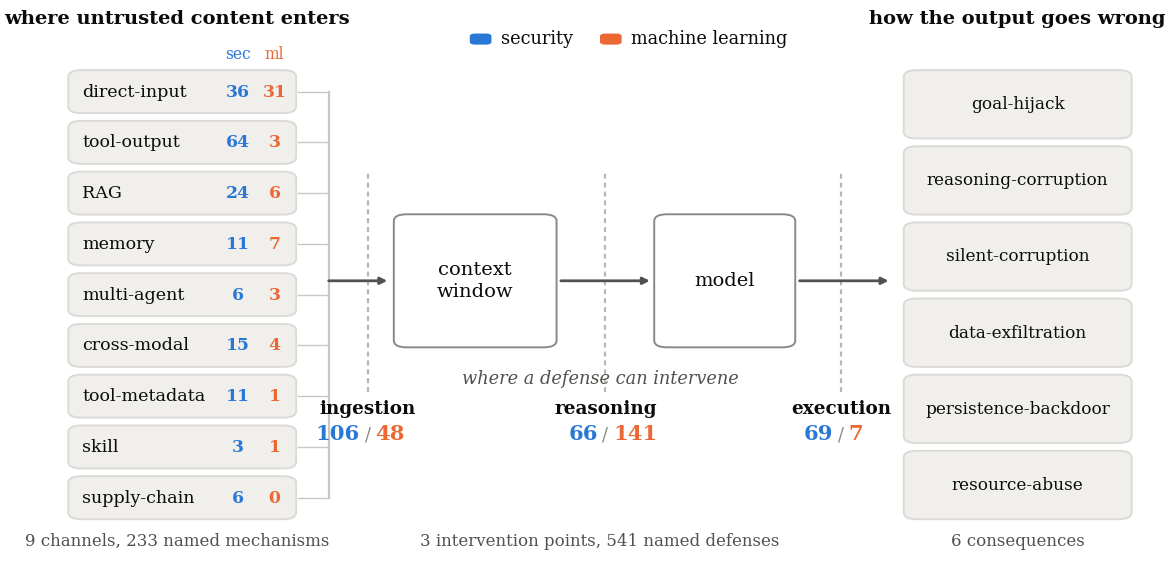
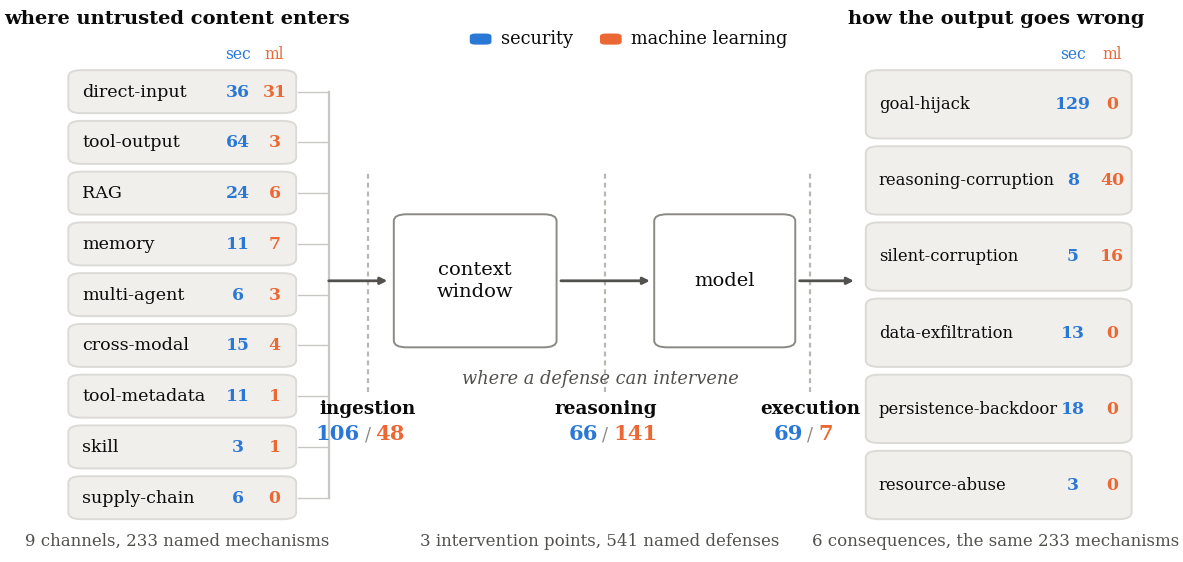
Put counts on the consequence boxes
The consequence column was the only one in the figure carrying no data, while
the channels already showed a sec/ml split. It now follows the same
convention, which makes the sharpest division in the taxonomy visible rather
than confined to the prose: goal-hijack 129 to 0, reasoning-corruption 8 to
40, and three consequences named by the security track alone.

Widened that column to fit the labels, shortened the final arrow and moved the
execution gate left so its label clears the boxes. Caption notes what the
column now shows.

diff --git a/scripts/gen_taxonomy_figure.py b/scripts/gen_taxonomy_figure.py
@@ -83,6 +83,8 @@ def main():
     mc = collections.Counter((e.get("channel"), e.get("track")) for e in mech)
     dp = collections.Counter((e.get("defense_intervention_point"),
                               e.get("track")) for e in defs)
+    qc = collections.Counter((e.get("consequence"), e.get("track"))
+                             for e in mech)
 
     fig, ax = plt.subplots(figsize=(FULL, 3.6))
     ax.set_xlim(0, 100); ax.set_ylim(0, 100); ax.axis("off")
@@ -130,10 +132,10 @@ def main():
     box(ax, 31, 38, 15, 24, "context\nwindow", "#ffffff", MUTED, fs=7)
     box(ax, 55, 38, 13, 24, "model", "#ffffff", MUTED, fs=7)
     arrow(ax, 46.4, 50, 54.6, 50, lw=1.0, color=INK2)
-    arrow(ax, 68.4, 50, 76.6, 50, lw=1.0, color=INK2)
+    arrow(ax, 68.4, 50, 73.4, 50, lw=1.0, color=INK2)
 
     # ---- the three intervention points -------------------------------------
-    for (key, lab), xc in zip(POINTS, (28.6, 50.5, 72.2)):
+    for (key, lab), xc in zip(POINTS, (28.6, 50.5, 69.4)):
         s_, m_ = dp.get((key, "Security"), 0), dp.get((key, "ML/AI"), 0)
         ax.plot([xc, xc], [30, 70], ls=(0, (2.2, 1.8)), lw=0.8,
                 color="#b9b7b2", zorder=0)
@@ -152,12 +154,21 @@ def main():
     # ---- consequences, right -----------------------------------------------
     n2 = len(CONSEQ)
     h2 = (top - bot - gap * (n2 - 1)) / n2
-    ax.text(88.5, 96.4, "how the output goes wrong", ha="center",
+    ax.text(86.5, 96.4, "how the output goes wrong", ha="center",
             fontsize=7, color=INK, fontweight="bold")
-    ax.text(88.5, 2.2, "6 consequences", ha="center", fontsize=6.0, color=INK2)
+    ax.text(93.6, 90.0, "sec", ha="center", fontsize=5.6, color=SEC)
+    ax.text(97.2, 90.0, "ml", ha="center", fontsize=5.6, color=ML)
+    ax.text(86.5, 2.2, "6 consequences, the same 233 mechanisms", ha="center", fontsize=6.0, color=INK2)
     for i, c in enumerate(CONSEQ):
         y = top - i * (h2 + gap) - h2
-        box(ax, 78, y, 21, h2, c, GREY, "#dcdad6", fs=6.1)
+        s_, m_ = qc.get((c, "Security"), 0), qc.get((c, "ML/AI"), 0)
+        box(ax, 74.5, y, 24.5, h2, "", GREY, "#dcdad6")
+        ax.text(75.7, y + h2 / 2, c, ha="left", va="center", fontsize=5.9,
+                color=INK)
+        ax.text(93.6, y + h2 / 2, f"{s_}", ha="center", va="center",
+                fontsize=6.2, color=SEC, fontweight="bold")
+        ax.text(97.2, y + h2 / 2, f"{m_}", ha="center", va="center",
+                fontsize=6.2, color=ML, fontweight="bold")
 
     OUT.mkdir(parents=True, exist_ok=True)
     for ext in ("pdf", "png"):

diff --git a/latex/sections/03-literatures.tex b/latex/sections/03-literatures.tex
@@ -71,7 +71,10 @@ the output fails as one of six \textbf{consequences}. A defense can intervene
 at three points, and the two literatures do not choose the same one: the
 security track masses at ingestion, the machine learning track at reasoning,
 and execution is security almost alone. Counts are named mechanisms per
-channel (left) and named defenses per intervention point (centre), by track.
+channel (left) and named defenses per intervention point (centre) and named mechanisms per
+consequence (right), by track. The consequence column is the sharpest
+division in the figure: every goal-hijack mechanism is security-track and
+none is machine learning, while reasoning corruption runs the other way.
 Drawn as a flow rather than a tree because the taxonomy is a cube; the
 pipeline is the one ordering the three axes genuinely have.}
 \label{fig:pipeline}
